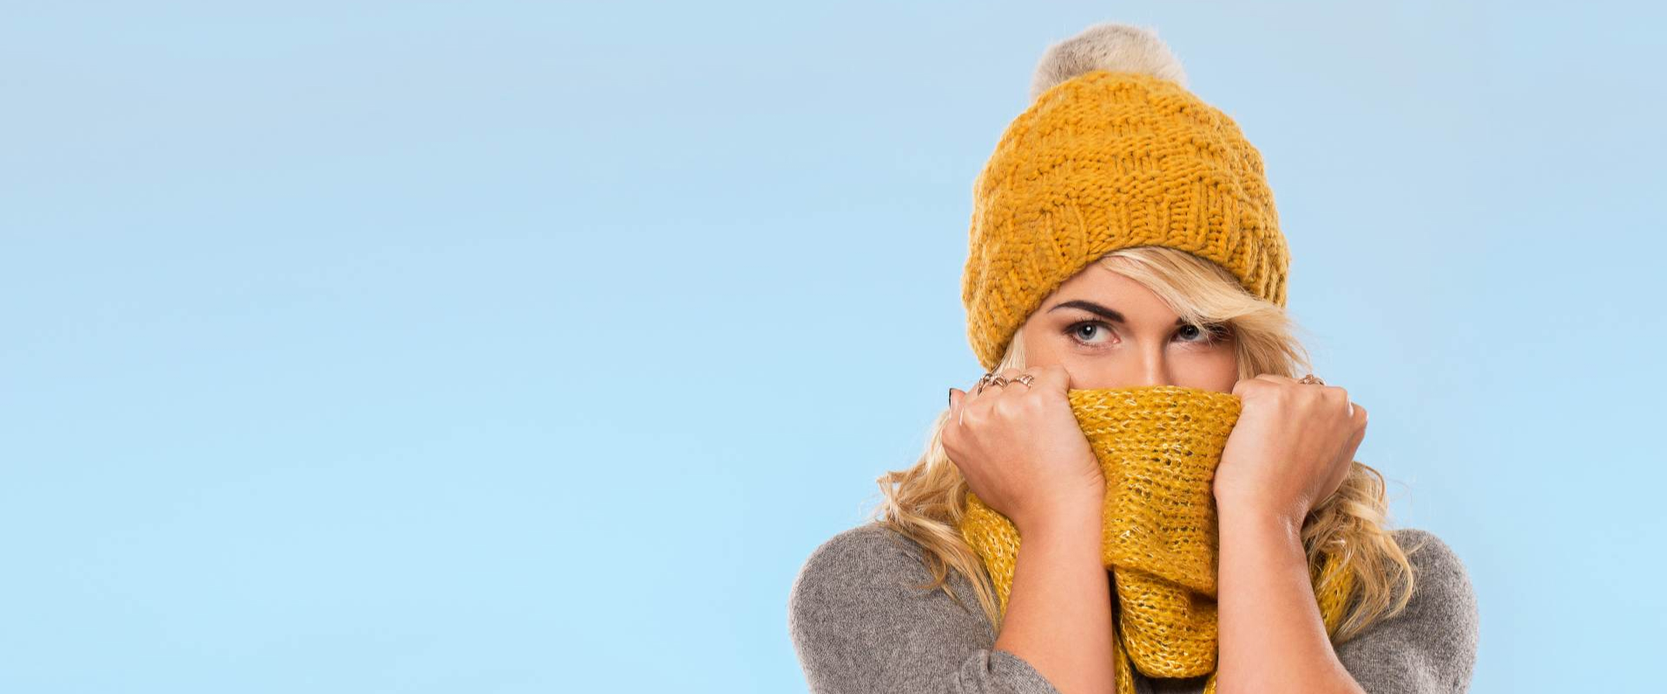
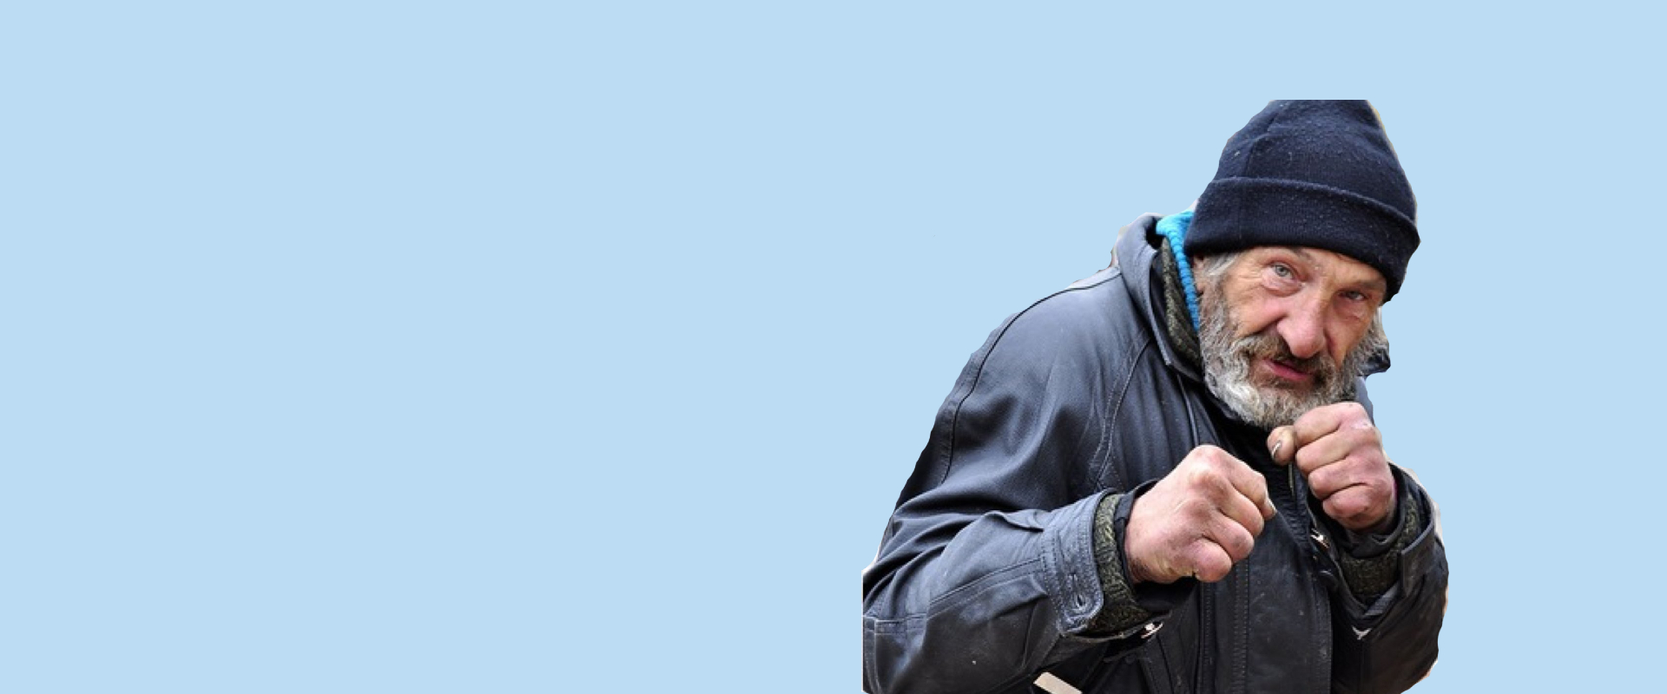
about section | desktop

Changed region(s): [[0.4688, 0.0312, 0.9062, 1.0]]

diff --git a/dist/css/style.min.css b/dist/css/style.min.css
@@ -4,4 +4,4 @@
  * Copyright 2011-2019 Twitter, Inc.
  * Licensed under MIT (https://github.com/twbs/bootstrap/blob/master/LICENSE)
  * Forked from Normalize.css, licensed MIT (https://github.com/necolas/normalize.css/blob/master/LICENSE.md)
- */@import url(https://fonts.googleapis.com/css2?family=Poppins:wght@500;700&display=swap);*,::after,::before{box-sizing:border-box}html{font-family:sans-serif;line-height:1.15;-webkit-text-size-adjust:100%;-webkit-tap-highlight-color:rgba(0,0,0,0)}article,aside,figcaption,figure,footer,header,hgroup,main,nav,section{display:block}body{margin:0;font-family:-apple-system,BlinkMacSystemFont,"Segoe UI",Roboto,"Helvetica Neue",Arial,"Noto Sans",sans-serif,"Apple Color Emoji","Segoe UI Emoji","Segoe UI Symbol","Noto Color Emoji";font-size:1rem;font-weight:400;line-height:1.5;color:#212529;text-align:left;background-color:#fff}[tabindex="-1"]:focus{outline:0!important}hr{box-sizing:content-box;height:0;overflow:visible}h1,h2,h3,h4,h5,h6{margin-top:0;margin-bottom:.5rem}p{margin-top:0;margin-bottom:1rem}abbr[data-original-title],abbr[title]{text-decoration:underline;-webkit-text-decoration:underline dotted;text-decoration:underline dotted;cursor:help;border-bottom:0;-webkit-text-decoration-skip-ink:none;text-decoration-skip-ink:none}address{margin-bottom:1rem;font-style:normal;line-height:inherit}dl,ol,ul{margin-top:0;margin-bottom:1rem}ol ol,ol ul,ul ol,ul ul{margin-bottom:0}dt{font-weight:700}dd{margin-bottom:.5rem;margin-left:0}blockquote{margin:0 0 1rem}b,strong{font-weight:bolder}small{font-size:80%}sub,sup{position:relative;font-size:75%;line-height:0;vertical-align:baseline}sub{bottom:-.25em}sup{top:-.5em}a{color:#007bff;text-decoration:none;background-color:rgba(0,0,0,0)}a:hover{color:#0056b3;text-decoration:underline}a:not([href]):not([tabindex]){color:inherit;text-decoration:none}a:not([href]):not([tabindex]):focus,a:not([href]):not([tabindex]):hover{color:inherit;text-decoration:none}a:not([href]):not([tabindex]):focus{outline:0}code,kbd,pre,samp{font-family:SFMono-Regular,Menlo,Monaco,Consolas,"Liberation Mono","Courier New",monospace;font-size:1em}pre{margin-top:0;margin-bottom:1rem;overflow:auto}figure{margin:0 0 1rem}img{vertical-align:middle;border-style:none}svg{overflow:hidden;vertical-align:middle}table{border-collapse:collapse}caption{padding-top:.75rem;padding-bottom:.75rem;color:#6c757d;text-align:left;caption-side:bottom}th{text-align:inherit}label{display:inline-block;margin-bottom:.5rem}button{border-radius:0}button:focus{outline:1px dotted;outline:5px auto -webkit-focus-ring-color}button,input,optgroup,select,textarea{margin:0;font-family:inherit;font-size:inherit;line-height:inherit}button,input{overflow:visible}button,select{text-transform:none}select{word-wrap:normal}[type=button],[type=reset],[type=submit],button{-webkit-appearance:button}[type=button]:not(:disabled),[type=reset]:not(:disabled),[type=submit]:not(:disabled),button:not(:disabled){cursor:pointer}[type=button]::-moz-focus-inner,[type=reset]::-moz-focus-inner,[type=submit]::-moz-focus-inner,button::-moz-focus-inner{padding:0;border-style:none}input[type=checkbox],input[type=radio]{box-sizing:border-box;padding:0}input[type=date],input[type=datetime-local],input[type=month],input[type=time]{-webkit-appearance:listbox}textarea{overflow:auto;resize:vertical}fieldset{min-width:0;padding:0;margin:0;border:0}legend{display:block;width:100%;max-width:100%;padding:0;margin-bottom:.5rem;font-size:1.5rem;line-height:inherit;color:inherit;white-space:normal}progress{vertical-align:baseline}[type=number]::-webkit-inner-spin-button,[type=number]::-webkit-outer-spin-button{height:auto}[type=search]{outline-offset:-2px;-webkit-appearance:none}[type=search]::-webkit-search-decoration{-webkit-appearance:none}::-webkit-file-upload-button{font:inherit;-webkit-appearance:button}output{display:inline-block}summary{display:list-item;cursor:pointer}template{display:none}[hidden]{display:none!important}*{font-family:Poppins,sans-serif;margin:0;padding:0}.container{width:1140px;margin:0 auto}.promo{min-height:100vh;position:relative;background:url(../../img/main_bg.jpg) no-repeat 50%/cover;padding-top:205px}.promo__title{width:535px;margin-top:10px}.promo__subtitle{z-index:2;position:relative}.promo__subtitle::before{content:"";z-index:-1;top:-5px;left:-9px;width:36px;height:36px;border-radius:100%;background:#ffa501;position:absolute}.promo__btns{margin-top:25px;display:flex;align-items:center;justify-content:space-between;width:250px}.promo__link{color:#000;font-weight:700}.promo__link:hover{color:#000}.title{font-weight:700;font-size:36px;line-height:60px}.title_fz14{font-size:14px;line-height:21px}.title_fz16{font-size:16px;line-height:24px}.title_fz48{font-size:48px}.btn{height:45px;background:#ffa501;box-shadow:0 4px 4px rgba(0,0,0,.15);padding:12px 25px}.sidepanel{position:fixed;top:230px;left:50px;display:flex;flex-direction:column;align-items:center;justify-content:space-between;height:340px;z-index:3}.sidepanel__divider{width:2px;height:70px;background-color:#000}.sidepanel__text{height:150px;width:25px}.sidepanel__text span{transform:rotate(-90deg) translate(-30%,-260%);display:block;width:150px;margin-top:10px}.sidepanel img:hover{fill:#ffa501}
+ */@import url(https://fonts.googleapis.com/css2?family=Poppins:wght@500;700&display=swap);*,::after,::before{box-sizing:border-box}html{font-family:sans-serif;line-height:1.15;-webkit-text-size-adjust:100%;-webkit-tap-highlight-color:rgba(0,0,0,0)}article,aside,figcaption,figure,footer,header,hgroup,main,nav,section{display:block}body{margin:0;font-family:-apple-system,BlinkMacSystemFont,"Segoe UI",Roboto,"Helvetica Neue",Arial,"Noto Sans",sans-serif,"Apple Color Emoji","Segoe UI Emoji","Segoe UI Symbol","Noto Color Emoji";font-size:1rem;font-weight:400;line-height:1.5;color:#212529;text-align:left;background-color:#fff}[tabindex="-1"]:focus{outline:0!important}hr{box-sizing:content-box;height:0;overflow:visible}h1,h2,h3,h4,h5,h6{margin-top:0;margin-bottom:.5rem}p{margin-top:0;margin-bottom:1rem}abbr[data-original-title],abbr[title]{text-decoration:underline;-webkit-text-decoration:underline dotted;text-decoration:underline dotted;cursor:help;border-bottom:0;-webkit-text-decoration-skip-ink:none;text-decoration-skip-ink:none}address{margin-bottom:1rem;font-style:normal;line-height:inherit}dl,ol,ul{margin-top:0;margin-bottom:1rem}ol ol,ol ul,ul ol,ul ul{margin-bottom:0}dt{font-weight:700}dd{margin-bottom:.5rem;margin-left:0}blockquote{margin:0 0 1rem}b,strong{font-weight:bolder}small{font-size:80%}sub,sup{position:relative;font-size:75%;line-height:0;vertical-align:baseline}sub{bottom:-.25em}sup{top:-.5em}a{color:#007bff;text-decoration:none;background-color:rgba(0,0,0,0)}a:hover{color:#0056b3;text-decoration:underline}a:not([href]):not([tabindex]){color:inherit;text-decoration:none}a:not([href]):not([tabindex]):focus,a:not([href]):not([tabindex]):hover{color:inherit;text-decoration:none}a:not([href]):not([tabindex]):focus{outline:0}code,kbd,pre,samp{font-family:SFMono-Regular,Menlo,Monaco,Consolas,"Liberation Mono","Courier New",monospace;font-size:1em}pre{margin-top:0;margin-bottom:1rem;overflow:auto}figure{margin:0 0 1rem}img{vertical-align:middle;border-style:none}svg{overflow:hidden;vertical-align:middle}table{border-collapse:collapse}caption{padding-top:.75rem;padding-bottom:.75rem;color:#6c757d;text-align:left;caption-side:bottom}th{text-align:inherit}label{display:inline-block;margin-bottom:.5rem}button{border-radius:0}button:focus{outline:1px dotted;outline:5px auto -webkit-focus-ring-color}button,input,optgroup,select,textarea{margin:0;font-family:inherit;font-size:inherit;line-height:inherit}button,input{overflow:visible}button,select{text-transform:none}select{word-wrap:normal}[type=button],[type=reset],[type=submit],button{-webkit-appearance:button}[type=button]:not(:disabled),[type=reset]:not(:disabled),[type=submit]:not(:disabled),button:not(:disabled){cursor:pointer}[type=button]::-moz-focus-inner,[type=reset]::-moz-focus-inner,[type=submit]::-moz-focus-inner,button::-moz-focus-inner{padding:0;border-style:none}input[type=checkbox],input[type=radio]{box-sizing:border-box;padding:0}input[type=date],input[type=datetime-local],input[type=month],input[type=time]{-webkit-appearance:listbox}textarea{overflow:auto;resize:vertical}fieldset{min-width:0;padding:0;margin:0;border:0}legend{display:block;width:100%;max-width:100%;padding:0;margin-bottom:.5rem;font-size:1.5rem;line-height:inherit;color:inherit;white-space:normal}progress{vertical-align:baseline}[type=number]::-webkit-inner-spin-button,[type=number]::-webkit-outer-spin-button{height:auto}[type=search]{outline-offset:-2px;-webkit-appearance:none}[type=search]::-webkit-search-decoration{-webkit-appearance:none}::-webkit-file-upload-button{font:inherit;-webkit-appearance:button}output{display:inline-block}summary{display:list-item;cursor:pointer}template{display:none}[hidden]{display:none!important}*{font-family:Poppins,sans-serif;margin:0;padding:0}.container{width:1140px;margin:0 auto}.promo{min-height:100vh;position:relative;background:url(../../img/main_bg.jpg) no-repeat 50%/cover;padding-top:205px}.promo__title{width:535px;margin-top:10px}.promo__subtitle{z-index:2;position:relative}.promo__subtitle::before{content:"";z-index:-1;top:-5px;left:-9px;width:36px;height:36px;border-radius:100%;background:#ffa501;position:absolute}.promo__btns{margin-top:25px;display:flex;align-items:center;justify-content:space-between;width:250px}.promo__link{color:#000;font-weight:700}.promo__link:hover{color:#000}.title{font-weight:700;font-size:36px;line-height:60px}.title_fz14{font-size:14px;line-height:21px}.title_fz16{font-size:16px;line-height:24px}.title_fz48{font-size:48px}.btn{height:45px;background:#ffa501;box-shadow:0 4px 4px rgba(0,0,0,.15);padding:12px 25px}.sidepanel{position:fixed;top:230px;left:50px;display:flex;flex-direction:column;align-items:center;justify-content:space-between;height:340px;z-index:3}.sidepanel__divider{width:2px;height:70px;background-color:#000}.sidepanel__text{height:150px;width:25px}.sidepanel__text span{transform:rotate(-90deg) translate(-30%,-260%);display:block;width:150px;margin-top:10px}.sidepanel img:hover{fill:#ffa501}.about{padding-top:120px}.about__wrapper{display:grid;grid-template-columns:400px 670px;grid-template-rows:minmax(245px,auto) minmax(255px,auto);grid-auto-rows:minmax(245px,auto);column-gap:70px;row-gap:40px}.about__photo{grid-row:1/3}.about__photo img{width:100%}.about__descr{padding-top:6px}.about__descr .divider{margin-top:0;width:60px;background-color:#ffa501;height:4px}.about__title{position:relative;padding:1px 0 0 12px}.about__title::before{content:"";z-index:-1;top:-5px;left:-9px;width:36px;height:36px;border-radius:100%;background:#ffa501;position:absolute}.about__text{margin-top:20px;font-size:14px;line-height:21px}.about__skills{display:grid;grid-template:repeat(2,minmax(115px,auto))/repeat(2,260px);grid-auto-rows:1fr;column-gap:50px;row-gap:20px}.about__skills-item{display:grid;grid-template-columns:40px 200px;column-gap:20px}.about__skills-circle{position:relative;padding:15px 0 0 15px}.about__skills-circle::before{content:"";z-index:-1;top:-5px;left:-9px;width:36px;height:36px;border-radius:100%;background:#ffa501;position:absolute}.about__skills-circle::before{top:0}.about__skills-text{margin-top:6px;font-size:12px;line-height:18px}

diff --git a/dist/index.html b/dist/index.html
@@ -1,1 +1,1 @@
-<!DOCTYPE html><html lang="ru"><head><meta charset="UTF-8"><meta name="viewport" content="width=device-width,initial-scale=1"><meta http-equiv="X-UA-Compatible" content="ie=edge"><title>Portfolio</title><meta name="title" content="Мое портфолио"><meta name="description" content="Здесь вы сможете ознакомиться с моими работами и узнать больше обо мне"><!-- Open Graph / Facebook --><meta property="og:type" content="website"><meta property="og:url" content="https://metatags.io/"><meta property="og:title" content="Мое портфолио"><meta property="og:description" content="Здесь вы сможете ознакомиться с моими работами и узнать больше обо мне"><meta property="og:image" content="https://metatags.io/assets/meta-tags-16a33a6a8531e519cc0936fbba0ad904e52d35f34a46c97a2c9f6f7dd7d336f2.png"><!-- Twitter --><meta property="twitter:card" content="summary_large_image"><meta property="twitter:url" content="https://metatags.io/"><meta property="twitter:title" content="Мое портфолио"><meta property="twitter:description" content="Здесь вы сможете ознакомиться с моими работами и узнать больше обо мне"><meta property="twitter:image" content="https://metatags.io/assets/meta-tags-16a33a6a8531e519cc0936fbba0ad904e52d35f34a46c97a2c9f6f7dd7d336f2.png"><!-- Favicon  --><link rel="apple-touch-icon" sizes="57x57" href="icons/favicon//apple-icon-57x57.png"><link rel="apple-touch-icon" sizes="60x60" href="icons/favicon//apple-icon-60x60.png"><link rel="apple-touch-icon" sizes="72x72" href="icons/favicon//apple-icon-72x72.png"><link rel="apple-touch-icon" sizes="76x76" href="icons/favicon//apple-icon-76x76.png"><link rel="apple-touch-icon" sizes="114x114" href="icons/favicon//apple-icon-114x114.png"><link rel="apple-touch-icon" sizes="120x120" href="icons/favicon//apple-icon-120x120.png"><link rel="apple-touch-icon" sizes="144x144" href="icons/favicon//apple-icon-144x144.png"><link rel="apple-touch-icon" sizes="152x152" href="icons/favicon//apple-icon-152x152.png"><link rel="apple-touch-icon" sizes="180x180" href="icons/favicon//apple-icon-180x180.png"><link rel="icon" type="image/png" sizes="192x192" href="icons/favicon//android-icon-192x192.png"><link rel="icon" type="image/png" sizes="32x32" href="icons/favicon//favicon-32x32.png"><link rel="icon" type="image/png" sizes="96x96" href="icons/favicon//favicon-96x96.png"><link rel="icon" type="image/png" sizes="16x16" href="icons/favicon//favicon-16x16.png"><link rel="manifest" href="icons/favicon//manifest.json"><meta name="msapplication-TileColor" content="#ffffff"><meta name="msapplication-TileImage" content="icons/favicon//ms-icon-144x144.png"><meta name="theme-color" content="#ffffff"><link rel="stylesheet" href="css/style.min.css"></head><body><aside class="sidepanel"><a href="#" class="sidepanel__link"><img src="icons/social/facebook.svg" alt="facebook"></a><a href="#" class="sidepanel__link"><img src="icons/social/instagram.svg" alt="instagram"></a><a href="#" class="sidepanel__link"><img src="icons/social/github.svg" alt="github"></a><div class="sidepanel__divider"></div><div class="sidepanel__text"><span>Social media links</span></div></aside><section class="promo"><div class="container"><div class="title title_fz16 promo__subtitle">my name’s Ivan Pohorilyi</div><div class="title title_fz48 promo__title">I'm a web developer from the city of Kyiv</div><div class="promo__btns"><a href="#" class="promo__link btn">Portfolio</a> <a href="#" class="promo__link">About me</a></div></div></section><script src="js/script.js"></script></body></html>
+<!DOCTYPE html><html lang="ru"><head><meta charset="UTF-8"><meta name="viewport" content="width=device-width,initial-scale=1"><meta http-equiv="X-UA-Compatible" content="ie=edge"><title>Portfolio</title><meta name="title" content="Мое портфолио"><meta name="description" content="Здесь вы сможете ознакомиться с моими работами и узнать больше обо мне"><!-- Open Graph / Facebook --><meta property="og:type" content="website"><meta property="og:url" content="https://metatags.io/"><meta property="og:title" content="Мое портфолио"><meta property="og:description" content="Здесь вы сможете ознакомиться с моими работами и узнать больше обо мне"><meta property="og:image" content="https://metatags.io/assets/meta-tags-16a33a6a8531e519cc0936fbba0ad904e52d35f34a46c97a2c9f6f7dd7d336f2.png"><!-- Twitter --><meta property="twitter:card" content="summary_large_image"><meta property="twitter:url" content="https://metatags.io/"><meta property="twitter:title" content="Мое портфолио"><meta property="twitter:description" content="Здесь вы сможете ознакомиться с моими работами и узнать больше обо мне"><meta property="twitter:image" content="https://metatags.io/assets/meta-tags-16a33a6a8531e519cc0936fbba0ad904e52d35f34a46c97a2c9f6f7dd7d336f2.png"><!-- Favicon  --><link rel="apple-touch-icon" sizes="57x57" href="icons/favicon//apple-icon-57x57.png"><link rel="apple-touch-icon" sizes="60x60" href="icons/favicon//apple-icon-60x60.png"><link rel="apple-touch-icon" sizes="72x72" href="icons/favicon//apple-icon-72x72.png"><link rel="apple-touch-icon" sizes="76x76" href="icons/favicon//apple-icon-76x76.png"><link rel="apple-touch-icon" sizes="114x114" href="icons/favicon//apple-icon-114x114.png"><link rel="apple-touch-icon" sizes="120x120" href="icons/favicon//apple-icon-120x120.png"><link rel="apple-touch-icon" sizes="144x144" href="icons/favicon//apple-icon-144x144.png"><link rel="apple-touch-icon" sizes="152x152" href="icons/favicon//apple-icon-152x152.png"><link rel="apple-touch-icon" sizes="180x180" href="icons/favicon//apple-icon-180x180.png"><link rel="icon" type="image/png" sizes="192x192" href="icons/favicon//android-icon-192x192.png"><link rel="icon" type="image/png" sizes="32x32" href="icons/favicon//favicon-32x32.png"><link rel="icon" type="image/png" sizes="96x96" href="icons/favicon//favicon-96x96.png"><link rel="icon" type="image/png" sizes="16x16" href="icons/favicon//favicon-16x16.png"><link rel="manifest" href="icons/favicon//manifest.json"><meta name="msapplication-TileColor" content="#ffffff"><meta name="msapplication-TileImage" content="icons/favicon//ms-icon-144x144.png"><meta name="theme-color" content="#ffffff"><link rel="stylesheet" href="css/style.min.css"></head><body><aside class="sidepanel"><a href="#" class="sidepanel__link"><img src="icons/social/facebook.svg" alt="facebook"></a><a href="#" class="sidepanel__link"><img src="icons/social/instagram.svg" alt="instagram"></a><a href="#" class="sidepanel__link"><img src="icons/social/github.svg" alt="github"></a><div class="sidepanel__divider"></div><div class="sidepanel__text"><span>Social media links</span></div></aside><section class="promo"><div class="container"><div class="title title_fz16 promo__subtitle">my name’s Petrovich</div><div class="title title_fz48 promo__title">I'm a street developer from the city of Kyiv</div><div class="promo__btns"><a href="#" class="promo__link btn">Portfolio</a> <a href="#" class="promo__link">About me</a></div></div></section><section class="about"><div class="container"><div class="about__wrapper"><div class="about__photo"><img src="img/main_photo.png" alt="photo"></div><div class="about__descr"><h2 class="title title_fz16 about__title">About me</h2><div class="title title_fz36 about__subtitle">My name's Petrovich</div><div class="divider"></div><p class="about__text">Lorem ipsum dolor sit amet, consectetur adipiscing elit, sed do eiusmod tempor incididunt ut labore et dolore magna aliqua. Ut enim ad minim veniam, quis nostrud exercitation ullamco laboris nisi ut aliquip ex ea commodo consequat. Duis aute irure dolor in reprehenderit in voluptate velit esse cillum dolore eu fugiat nulla pariatur. Excepteur sint occaecat cupidatat non proident, sunt in culpa qui officia deserunt mollit anim id est laborum</p></div><div class="about__skills"><div class="about__skills-item"><div class="about__skills-circle"><img src="icons/about_me/web_development.svg" alt="web-dev"></div><div><div class="title title_fz14">Street development</div><div class="about__skills-text">Lorem ipsum dolor sit amet, consectetur adipiscing elit, sed do eiusmod tempor incididunt ut labore et dolore magna aliqua.</div></div></div><div class="about__skills-item"><div class="about__skills-circle"><img src="icons/about_me/mobile_dev.svg" alt="mobile-dev"></div><div><div class="title title_fz14">Profesionall dancer</div><div class="about__skills-text">Lorem ipsum dolor sit amet, consectetur adipiscing elit, sed do eiusmod tempor incididunt ut labore et dolore magna aliqua.</div></div></div><div class="about__skills-item"><div class="about__skills-circle"><img src="icons/about_me/design.svg" alt="design"></div><div><div class="title title_fz14">sommelier</div><div class="about__skills-text">Lorem ipsum dolor sit amet, consectetur adipiscing elit, sed do eiusmod tempor incididunt ut labore et dolore magna aliqua.</div></div></div></div></div></div></section><script src="js/script.js"></script></body></html>

diff --git a/src/index.html b/src/index.html
@@ -58,13 +58,70 @@
     </aside>
     <section class="promo">
         <div class="container">
-            <div class="title title_fz16 promo__subtitle">my name’s Ivan Pohorilyi</div>
-            <div class="title title_fz48 promo__title">I'm a web developer from the city of Kyiv</div>
+            <div class="title title_fz16 promo__subtitle">my name’s Petrovich</div>
+            <div class="title title_fz48 promo__title">I'm a street developer from the city of Kyiv</div>
             <div class="promo__btns">
                 <a href="#" class="promo__link btn">Portfolio</a>
                 <a href="#" class="promo__link">About me</a>
             </div>
 
+        </div>
+    </section>
+
+    <section class="about">
+        <div class="container">
+            <div class="about__wrapper">
+                <div class="about__photo">
+                    <img src="img/main_photo.png" alt="photo">
+                </div>
+                <div class="about__descr">
+                    <h2 class="title title_fz16 about__title">About me</h2>
+                    <div class="title title_fz36 about__subtitle">My name's Petrovich</div>
+                    <div class="divider"></div>
+                    <p class="about__text">Lorem ipsum dolor sit amet, consectetur adipiscing elit, sed do eiusmod tempor incididunt ut labore et dolore magna aliqua. Ut enim ad minim veniam, quis nostrud exercitation ullamco laboris nisi ut aliquip ex ea commodo consequat. Duis aute irure dolor in reprehenderit in voluptate velit esse cillum dolore eu fugiat nulla pariatur. Excepteur sint occaecat cupidatat non proident, sunt in culpa qui officia deserunt mollit anim id est laborum</p>
+                </div>
+                <div class="about__skills">
+                    <div class="about__skills-item">
+                        <div class="about__skills-circle">
+                            <img src="icons/about_me/web_development.svg" alt="web-dev">
+                        </div>
+                        <div>
+                            <div class="title title_fz14">
+                                Street development
+                            </div>
+                            <div class="about__skills-text">
+                                Lorem ipsum dolor sit amet, consectetur adipiscing elit, sed do eiusmod tempor incididunt ut labore et dolore magna aliqua.
+                            </div>
+                        </div>
+                    </div>
+                    <div class="about__skills-item">
+                        <div class="about__skills-circle">
+                            <img src="icons/about_me/mobile_dev.svg" alt="mobile-dev">
+                        </div>
+                        <div>
+                            <div class="title title_fz14">
+                                Profesionall dancer
+                            </div>
+                            <div class="about__skills-text">
+                                Lorem ipsum dolor sit amet, consectetur adipiscing elit, sed do eiusmod tempor incididunt ut labore et dolore magna aliqua.
+                            </div>
+                        </div>
+                    </div>
+                    <div class="about__skills-item">
+                        <div class="about__skills-circle">
+                            <img src="icons/about_me/design.svg" alt="design">
+                        </div>
+                        <div>
+                            <div class="title title_fz14">
+                                sommelier
+                            </div>
+                            <div class="about__skills-text">
+                                Lorem ipsum dolor sit amet, consectetur adipiscing elit, sed do eiusmod tempor incididunt ut labore et dolore magna aliqua.
+                            </div>
+                        </div>
+                    </div>
+                </div>
+            </div>
         </div>
     </section>
 

diff --git a/src/sass/blocks/_about.scss b/src/sass/blocks/_about.scss
@@ -1,0 +1,61 @@
+.about {
+    padding-top: 120px;
+    &__wrapper {
+        display: grid;
+        grid-template-columns: 400px 670px;
+        grid-template-rows: minmax(245px, auto) minmax(255px, auto);
+        grid-auto-rows: minmax(245px, auto);
+        column-gap: 70px;
+        row-gap: 40px;
+    }
+    &__photo {
+        grid-row: 1/3;
+        img {
+            width: 100%;
+        }
+    }
+    &__descr {
+        padding-top: 6px;
+        .divider {
+            margin-top: 0;
+            width: 60px;
+            background-color: $main-color;
+            height: 4px;
+        }
+    }
+    &__title {
+        position: relative;
+        padding: 1px 0 0 12px;
+        @include before_circle;
+    }
+    &__text {
+        margin-top: 20px;
+        font-size: 14px;
+        line-height: 21px;
+    }
+    &__skills {
+        display: grid;
+        grid-template: repeat(2, minmax(115px, auto)) / repeat(2, 260px);
+        grid-auto-rows: 1fr;
+        column-gap: 50px;
+        row-gap: 20px;
+        &-item {
+            display: grid;
+            grid-template-columns: 40px 200px;
+            column-gap: 20px;
+        }
+        &-circle {
+            position: relative;
+            padding: 15px 0 0 15px;
+            @include before_circle;
+            &::before {
+                top: 0;
+            }
+        }
+        &-text {
+            margin-top: 6px;
+            font-size: 12px;
+            line-height: 18px;
+        }
+    }
+}

diff --git a/src/sass/style.scss b/src/sass/style.scss
@@ -23,3 +23,4 @@
 @import 'blocks/title';
 @import 'blocks/buttons';
 @import 'blocks/sidepanel';
+@import 'blocks/about';
